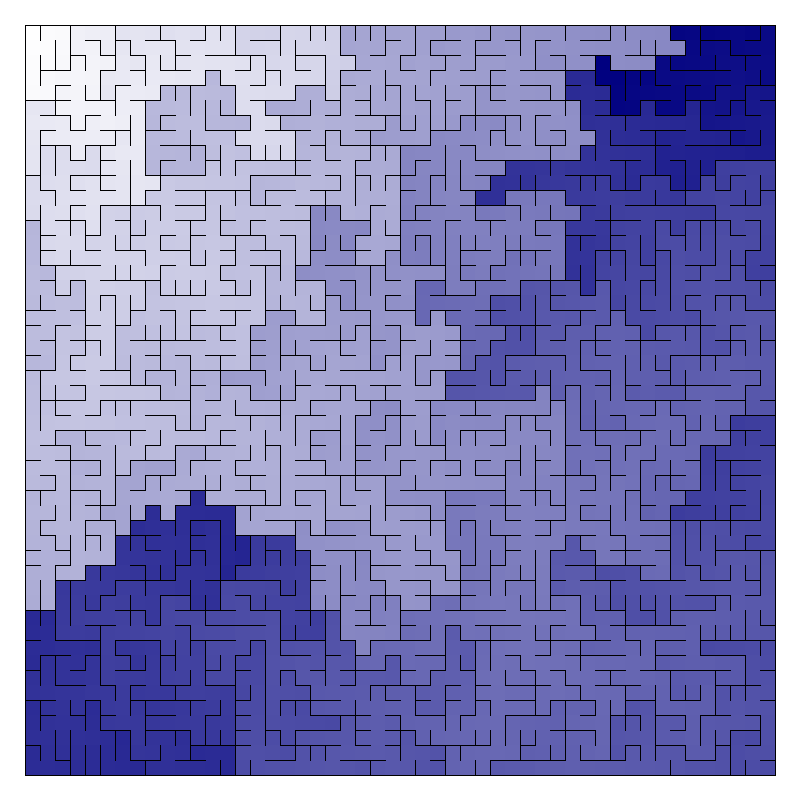
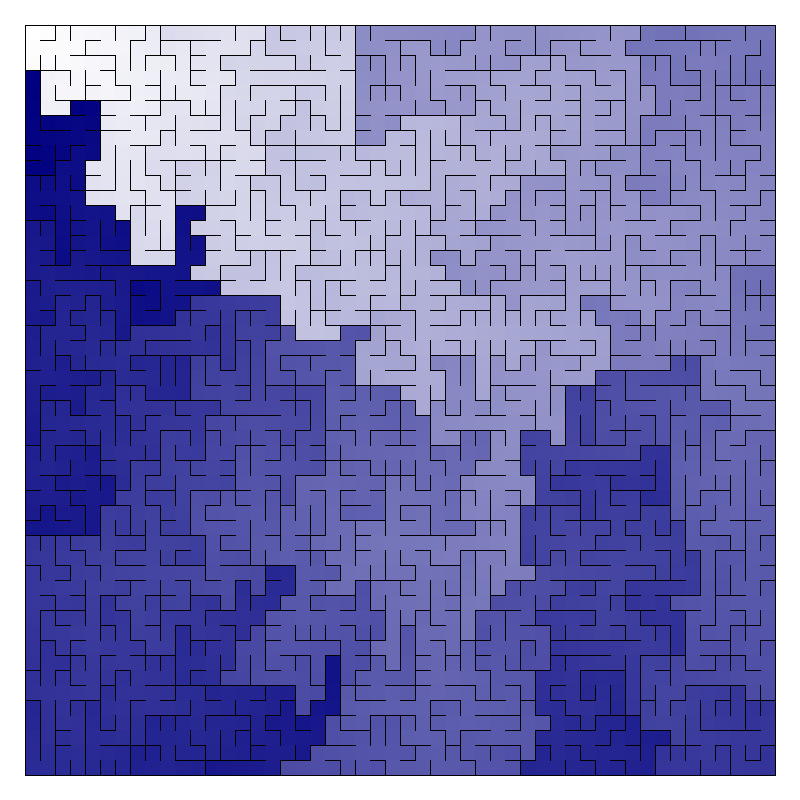
Fix image drawing when rectangular mazes

diff --git a/pil_draw.py b/pil_draw.py
@@ -2,7 +2,13 @@ from Grid import Grid
 from PIL import Image, ImageDraw
 import os
 
+
+# im = Image.new("RGB", (512, 512), "white")
+# pix = im.load()
+# print(pix[30, 30])
+# im.show()
 a_destination = 'maze_images'
+
 
 class PilGrid(Grid):
     def __init__(self, columns, rows, origin=1):
@@ -12,14 +18,18 @@ class PilGrid(Grid):
         self.image = Image.new("RGB", (self.width, self.height), "white")
         self.inset = 50
         self.cell_width = self.calculate_cell_width()
+        self.cell_height = self.calculate_cell_width()
         self.rect_width = self.rows * self.cell_width
-        self.rect_height = self.columns * self.cell_width
+        self.rect_height = self.columns * self.cell_height
         self.draw = ImageDraw.Draw(self.image)
         self.pixel_ranges = self.get_pixel_ranges()
         self.default_end = self.rows * self.columns
 
     def calculate_cell_width(self):
         return (self.width - self.inset)//self.rows
+
+    def calculate_cell_width(self):
+        return (self.height - self.inset)//self.columns
 
     def draw_cell(self, x_coord: int, y_coord: int, walls: str):
         if len(walls) > 0:
@@ -42,7 +52,7 @@ class PilGrid(Grid):
                     self.draw.line((start, stop), width=1, fill="black")
         return
 
-    def draw_maze(self, save=True, fstring="maze-{0}-{1}.png"):
+    def draw_maze(self, save=True):
         displacement = self.inset//2
         x_coord, y_coord = displacement, displacement
         grid = self.grid
@@ -53,9 +63,8 @@ class PilGrid(Grid):
                 x_coord += self.cell_width
             x_coord = displacement
             y_coord += self.cell_width
-        self.draw.rectangle(
-                [(displacement, displacement),
-                    (self.rect_width+displacement, self.rect_height+displacement)],
+        self.draw.rectangle([(displacement, displacement), (self.rect_width+displacement,
+                                                            self.rect_height+displacement)],
                             outline="black")
         self.image.show()
         if save:
@@ -70,7 +79,7 @@ class PilGrid(Grid):
                 if os.path.isfile(os.path.join(path, i)):
                     count += 1
             my_format = str(self.rows) + 'x' + str(self.columns)
-            fpath = os.path.join(path, fstring.format(count, my_format))
+            fpath = os.path.join(path, 'maze-{0}-{1}.png'.format(count, my_format))
             self.image.save(fpath)
         return
 

diff --git a/recursive_backtracking.py b/recursive_backtracking.py
@@ -1,15 +1,22 @@
-#!/usr/bin/env python3
+#!/usr/bin/env python
 import time
 from Grid import *
 import random
 from pil_draw import PilGrid
 import time
+# import pprint
+
+random.seed(time.time())
 
 
+# recursive backtracking algorithm
+# returns a dictionary with cells as keys
+# and the walls they have left as values
 def recursive_backtracker(grid_object):
     start_time = time.time()
     cells = grid_object.all_cells()
     starting_cell = grid_object.random_cell()
+    # sorted(cells)
     current_cell = starting_cell
     history = []
     visited = []
@@ -38,6 +45,8 @@ def recursive_backtracker(grid_object):
 if __name__ == '__main__':
     my_grid = PilGrid(100, 100)
     recursive_backtracker(my_grid)
+    # my_grid.calculate_distances()
+    # pprint.pprint(my_grid.distances)
     my_grid.color_grid('red')
     print(len(my_grid.get_dead_ends()))
-    my_grid.draw_maze(True, "recursive-backtracking-maze-{0}-{1}.png")
+    my_grid.draw_maze()

diff --git a/aldous_broder.py b/aldous_broder.py
@@ -1,4 +1,4 @@
-#!/usr/bin/env python3
+#!/usr/bin/env python
 from Grid import *
 import time
 import random
@@ -12,6 +12,7 @@ def aldous_broder(grid_object: Grid):
     unvisited_cells = grid_object.all_cells()
     while unvisited_cells:
         neighbours = current_cell.neighbours
+        random.shuffle(neighbours)
         next_cell = random.choice(neighbours)
         if next_cell in unvisited_cells:
             current_cell.carve_passage(next_cell)
@@ -30,5 +31,4 @@ if __name__ == '__main__':
     my_grid = PilGrid(50, 50)
     aldous_broder(my_grid)
     my_grid.color_grid('blue')
-    print(len(my_grid.get_dead_ends()))
-    my_grid.draw_maze(True, "aldous-broder-maze-{0}-{1}.png")
+    my_grid.draw_maze()

diff --git a/wilsons.py b/wilsons.py
@@ -1,11 +1,10 @@
-#!/usr/bin/env python3
 from Grid import *
 import random
 import time
 from pil_draw import PilGrid
 
 
-def wilsons(grid_object):
+def wilsons(grid_object: Grid):
     start_time = time.time()
     visited = []
     unvisited = grid_object.all_cells()
@@ -52,6 +51,6 @@ def wilsons(grid_object):
 if __name__ == '__main__':
     my_grid = PilGrid(50, 50)
     wilsons(my_grid)
-    my_grid.color_grid('red')
+    my_grid.color_grid()
     print(len(my_grid.get_dead_ends()))
-    my_grid.draw_maze(True, "wilson-maze-{0}-{1}.png")
+    my_grid.draw_maze()

diff --git a/Grid.py b/Grid.py
@@ -1,6 +1,6 @@
 #!/usr/bin/env python
 import pprint
-from matplotlib import pyplot as plt
+#  from matplotlib import pyplot as plt
 import random
 import pickle
 import os
@@ -43,6 +43,7 @@ class Grid:
     # this is used to create the maze structure later
     def make_grid(self):
         grid = []
+        # items = list(range(1, (self.rows * self.columns) + 1))
         index = 0
         for k in range(self.columns):
             row = []

diff --git a/hunt_and_kill.py b/hunt_and_kill.py
@@ -1,4 +1,3 @@
-#!/usr/bin/env python3
 from Grid import *
 import time
 import random
@@ -41,8 +40,8 @@ def hunt_and_kill(grid_object: Grid):
 
 
 if __name__ == '__main__':
-    my_grid = PilGrid(100, 100)
+    my_grid = PilGrid(50, 50)
     hunt_and_kill(my_grid)
     my_grid.color_grid('green')
     print(len(my_grid.get_dead_ends()))
-    my_grid.draw_maze(True, "hunt-and-kill-maze-{0}-{1}.png")
+    my_grid.draw_maze()

diff --git a/binary_tree.py b/binary_tree.py
@@ -1,4 +1,3 @@
-#!/usr/bin/env python3
 from Grid import *
 import random
 import time
@@ -41,5 +40,5 @@ def binary_tree(grid_object: Grid, bias='NW'):
 if __name__ == '__main__':
     my_grid = PilGrid(50, 50)
     binary_tree(my_grid, 'SE')
-    my_grid.color_grid('green')
-    my_grid.draw_maze(True, "binary-tree-maze-{0}-{1}.png")
+    my_grid.color_grid('red')
+    my_grid.draw_maze()
